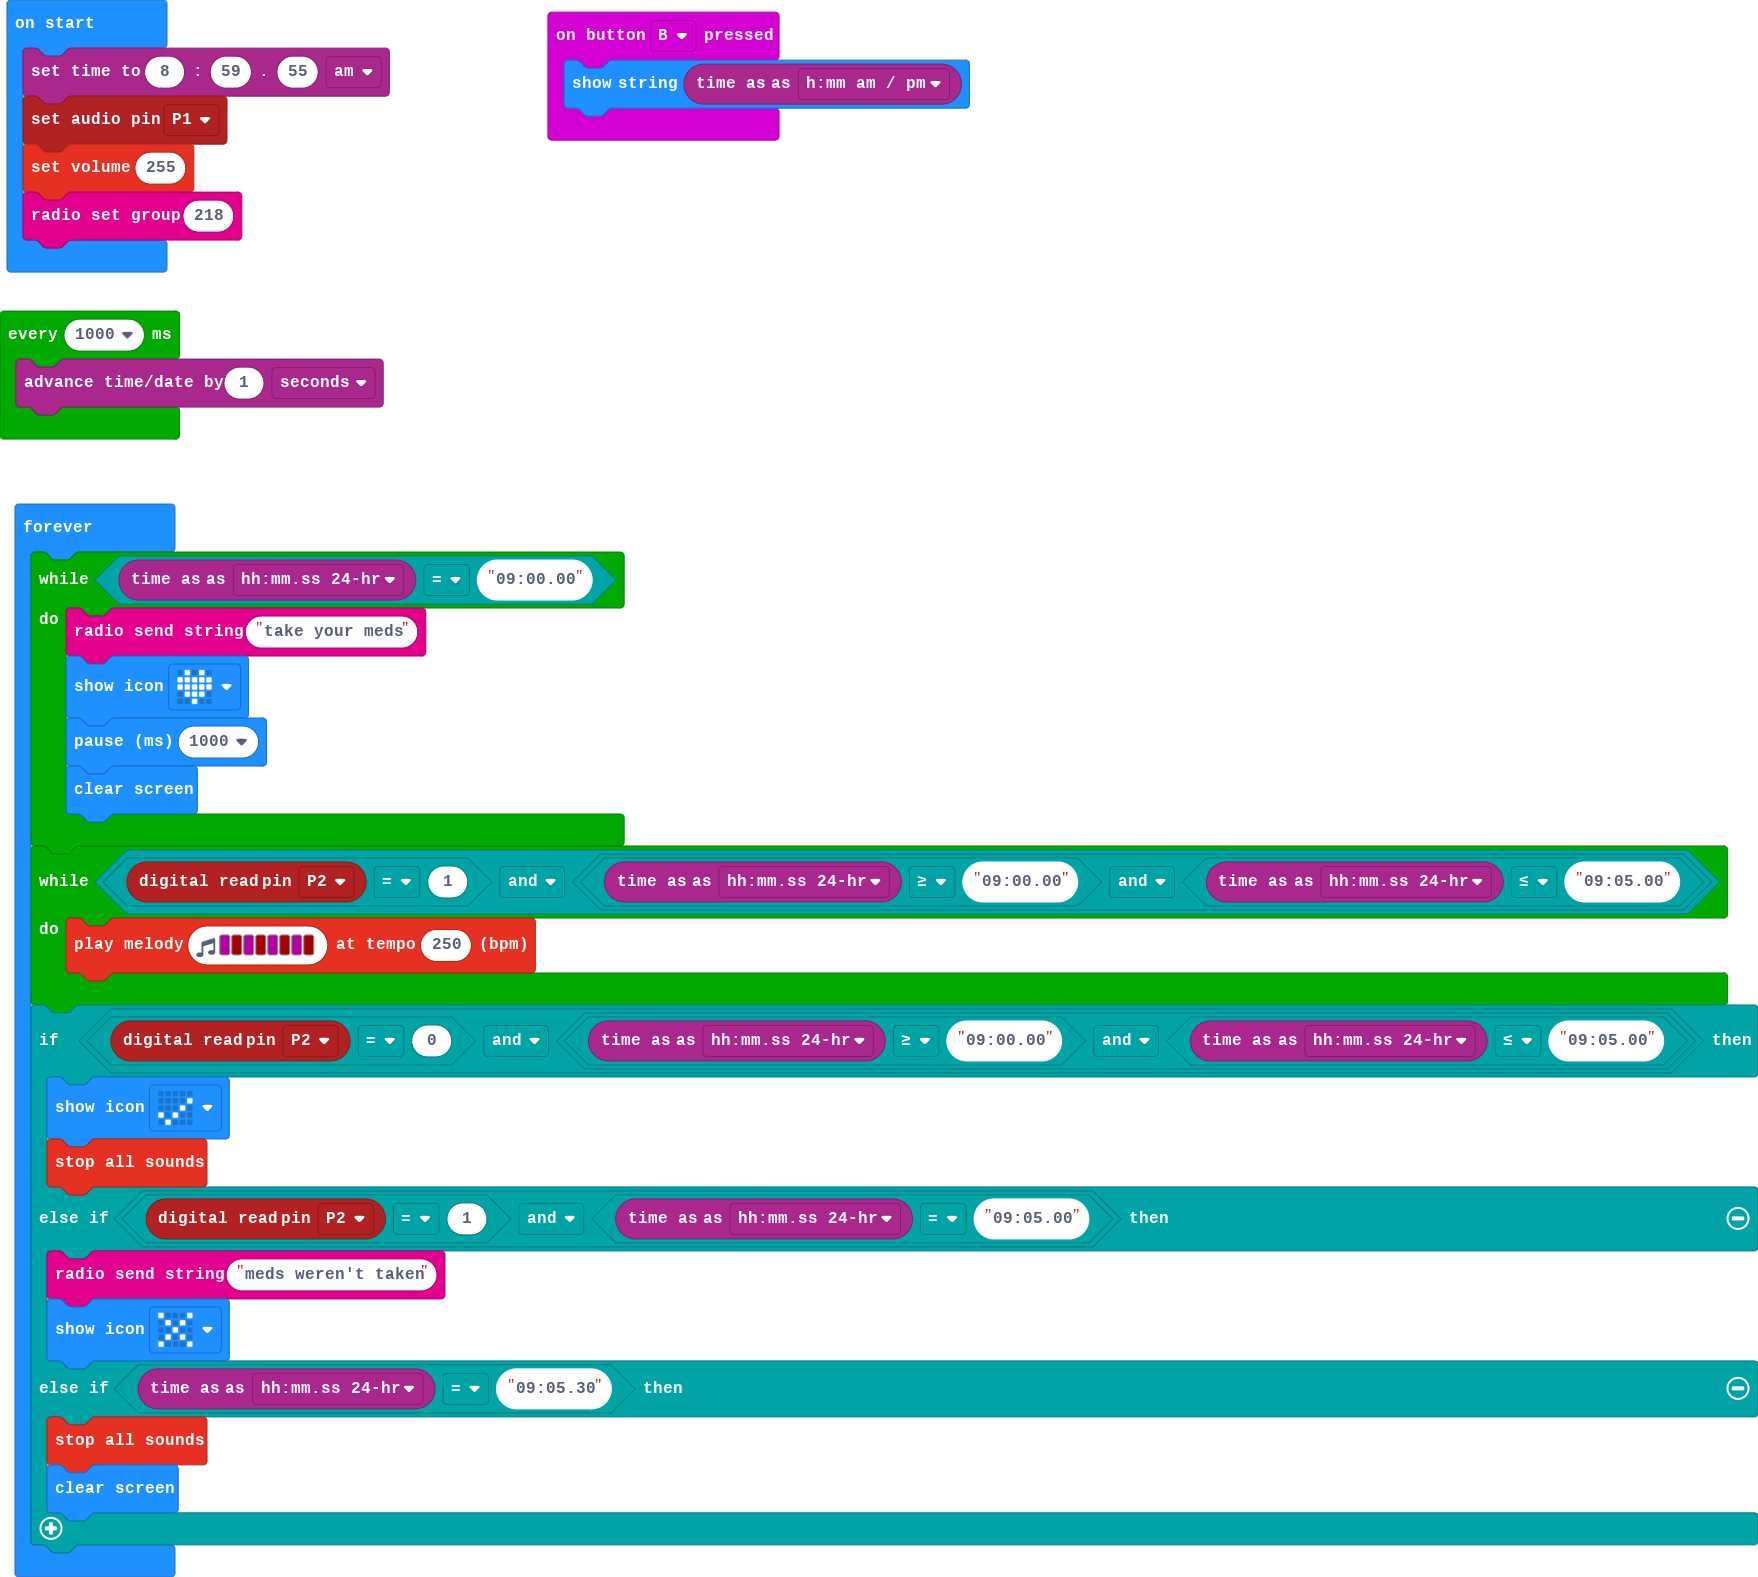
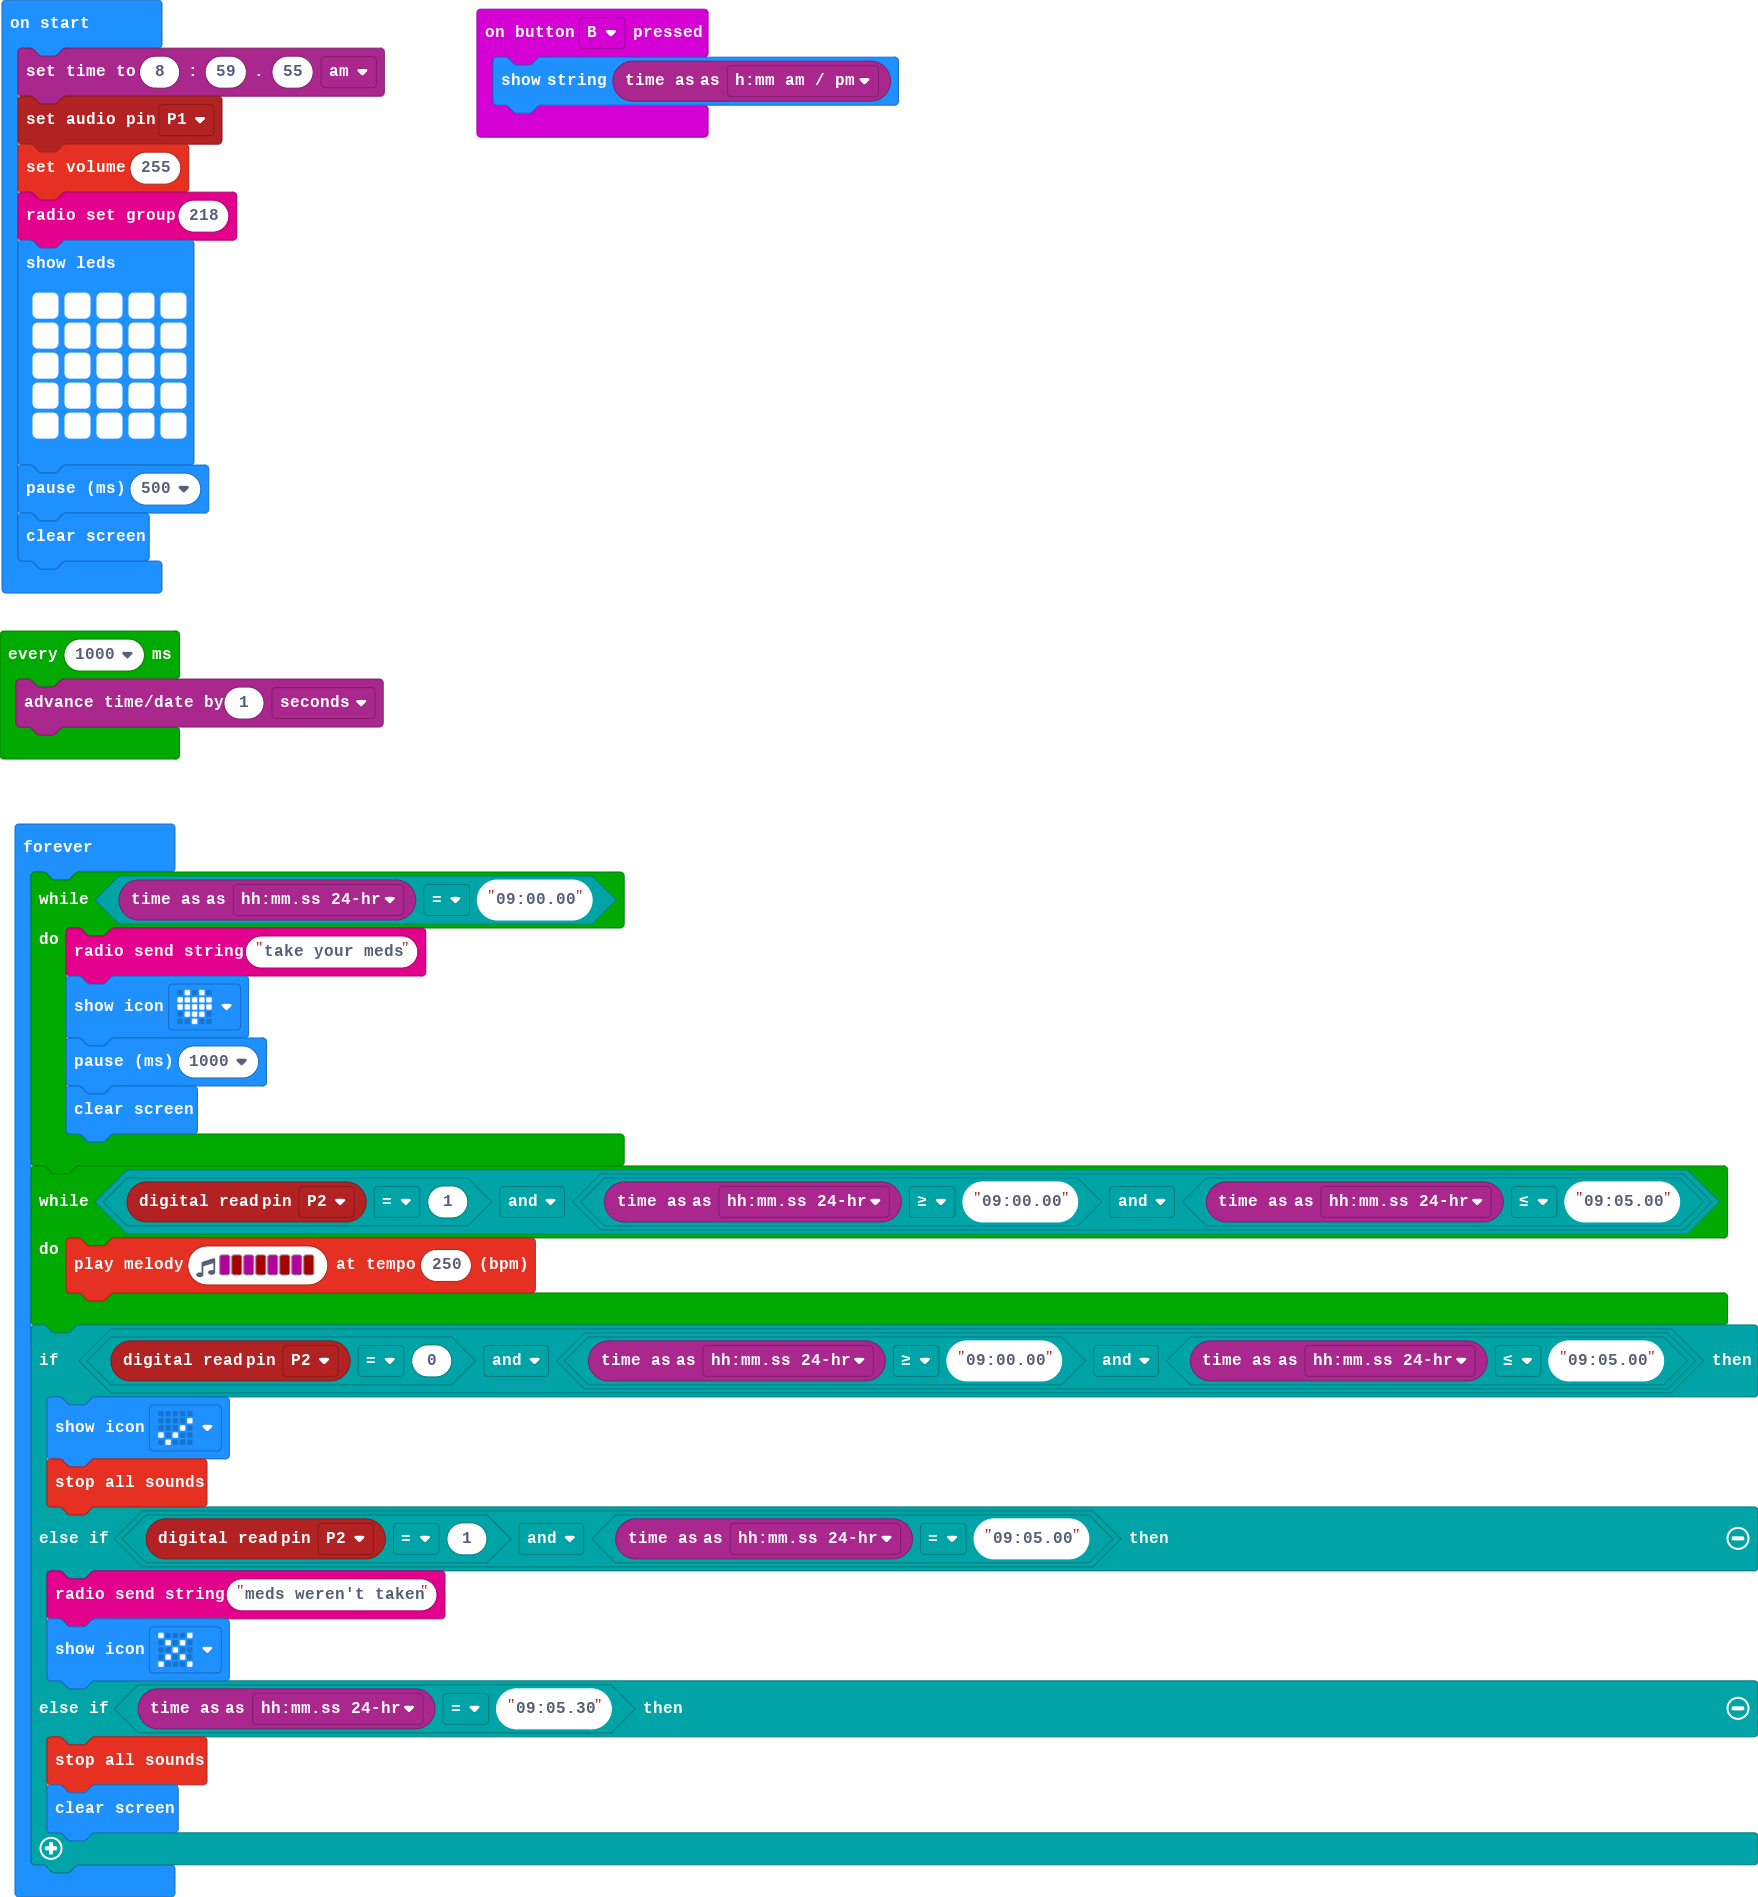
Update main.blocks, main.ts

diff --git a/main.ts b/main.ts
@@ -5,6 +5,15 @@ timeanddate.setTime(8, 59, 55, timeanddate.MornNight.AM)
 pins.setAudioPin(AnalogPin.P1)
 music.setVolume(255)
 radio.setGroup(218)
+basic.showLeds(`
+    # # # # #
+    # # # # #
+    # # # # #
+    # # # # #
+    # # # # #
+    `)
+basic.pause(500)
+basic.clearScreen()
 loops.everyInterval(1000, function () {
     timeanddate.advanceBy(1, timeanddate.TimeUnit.Seconds)
 })
